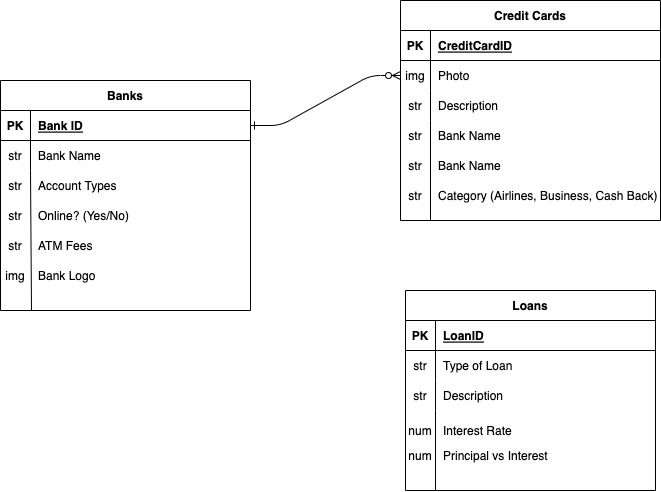
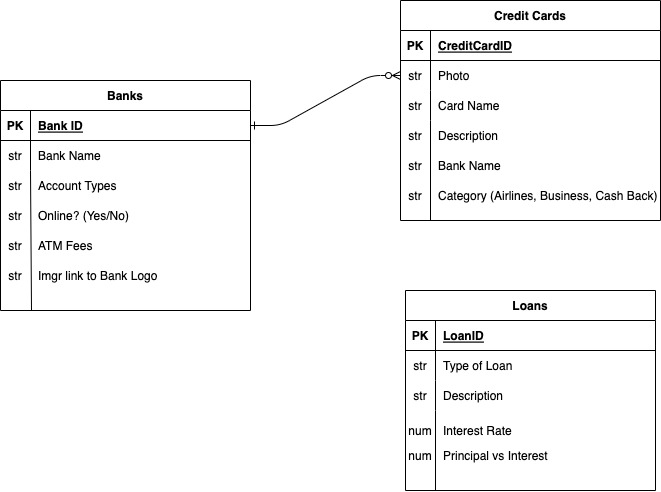
Adding files to db models and seed,  replaced old ERD

Changed region(s): [[0.6657, 0.1829, 0.7564, 0.3049], [0.0, 0.5488, 0.2421, 0.5793], [0.6051, 0.1524, 0.6354, 0.1829]]

diff --git a/backend/seed/creditCards.js b/backend/seed/creditCards.js
@@ -1,0 +1,24 @@
+const db = require('../db')
+const creditCard = require('../models/creditCard')
+
+// Connect to the database
+db.on('error', console.error.bind(console, 'MongoDB connection error:'))
+
+const main = async () => {
+    const creditCards = [
+        { name: 'Aloe Vera', bank: 'Chase' , description: 'Aloe vera is a succulent plant species of the genus Aloe. An evergreen perennial, it originates from the Arabian Peninsula, but grows wild in tropical, semi-tropical, and arid climates around the world. It is cultivated for agricultural and medicinal uses.', image: 'https://upload.wikimedia.org/wikipedia/commons/4/4b/Aloe_vera_flower_inset.png' },
+        { name: 'Snake Plant', bank: 'Citi', description: 'Sansevieria trifasciata is a species of flowering plant in the family Asparagaceae, native to tropical West Africa from Nigeria east to the Congo. It is most commonly known as the snake plant, Saint Georges sword, mother-in-laws tongue, and vipers bowstring hemp, among other names.', image: 'https://upload.wikimedia.org/wikipedia/commons/thumb/f/fb/Snake_Plant_%28Sansevieria_trifasciata_%27Laurentii%27%29.jpg/2560px-Snake_Plant_%28Sansevieria_trifasciata_%27Laurentii%27%29.jpg' },
+        { name: 'Areca palm', bank: 'Capital One', description: 'Dypsis lutescens, also known as golden cane palm, areca palm, yellow palm, or butterfly palm, is a species of flowering plant in the family Arecaceae, native to Madagascar and naturalized in the Andaman...', image: 'https://upload.wikimedia.org/wikipedia/commons/thumb/4/4b/Dypsis_lutescens1.jpg/1280px-Dypsis_lutescens1.jpg' },
+        { name: 'Spider Plant', bank: 'Wells Fargo', description: 'Chlorophytum comosum, often called spider plant but also known as airplane plant, St. Bernards lily, spider ivy, ribbon plant, and hen and chickens is a species of perennial flowering plant. It is native to tropical and southern Africa, but has become naturalized in other parts of the world, including western Australia.', image: 'https://upload.wikimedia.org/wikipedia/commons/thumb/b/b1/Hierbabuena_0611_Revised.jpg/1920px-Hierbabuena_0611_Revised.jpg' },
+        { name: 'Dracaena', bank: 'Discover', description: 'Dracaena is a genus of about 120 species of trees and succulent shrubs. In the APG IV classification system, it is placed in the family Asparagaceae, subfamily Nolinoideae (formerly the family Ruscaceae). It has also formerly been separated (sometimes with Cordyline) into the family Dracaenaceae or placed in the Agavaceae (now Agavoideae).', image: 'https://upload.wikimedia.org/wikipedia/commons/f/f7/Dracaena_draco.jpg' },
+    ]
+
+    await creditCard.insertMany(creditCards)
+    console.log("Created some Credit Cards!")
+}
+const run = async () => {
+    await main()
+    db.close()
+}
+
+run()

diff --git a/backend/db/index.js b/backend/db/index.js
@@ -1,0 +1,16 @@
+const mongoose = require('mongoose')
+
+let MONGODB_URI = 'mongodb://127.0.0.1:27017/creditCardsDatabase'
+
+mongoose
+    .connect(MONGODB_URI, { useUnifiedTopology: true, useNewUrlParser: true })
+    .then(() => {
+        console.log('Successfully connected to MongoDB.')
+    })
+    .catch(e => {
+        console.error('Connection error', e.message)
+    })
+
+const db = mongoose.connection
+
+module.exports = db

diff --git a/backend/models/creditCard.js b/backend/models/creditCard.js
@@ -1,0 +1,13 @@
+const mongoose = require('mongoose')
+const Schema = mongoose.Schema
+
+const creditCard = new Schema(
+    {
+        name: { type: String, required: true },
+        description: { type: String, required: true },
+        image: { type: String, required: true },
+    },
+    { timestamps: true },
+)
+
+module.exports = mongoose.model('creditCards', creditCard)
